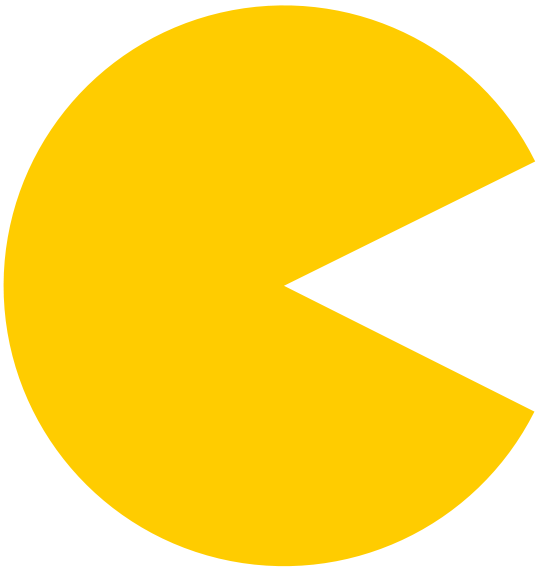
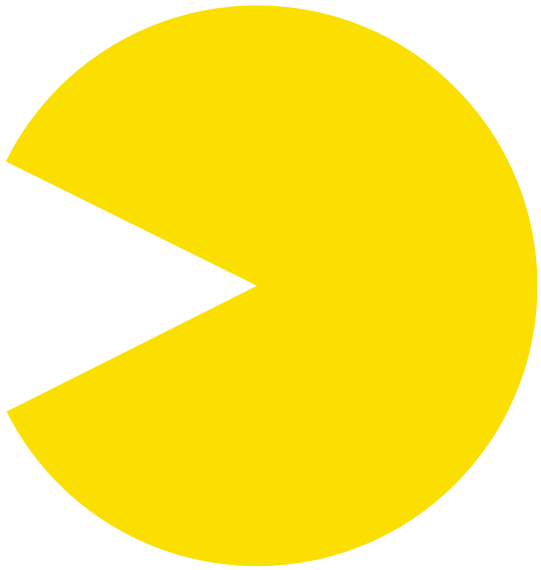
pacman will appear in a random direction

Changed region(s): [[0.0, 0.0, 1.0, 1.0]]

diff --git a/js/view.js b/js/view.js
@@ -18,8 +18,13 @@ View.prototype.start = function () {
 
   setTimeout(function () {
     var $pacman = $('<img>');
-    $pacman.attr('src', './images/pacman.png')
-    $('body').append($pacman);
+    $pacman.attr('src', './images/pacman.png');
+
+    var num_rotations = Math.floor(Math.random() * 4);
+    $pacman.css('transform', 'rotate(' + num_rotations * 90 + 'deg)')
+
+    $('figure').append($pacman);
+    console.log(num_rotations);
   }, time);
 };
 

diff --git a/js/bundle.js b/js/bundle.js
@@ -90,8 +90,13 @@
 	
 	  setTimeout(function () {
 	    var $pacman = $('<img>');
-	    $pacman.attr('src', './images/pacman.png')
-	    $('body').append($pacman);
+	    $pacman.attr('src', './images/pacman.png');
+	
+	    var num_rotations = Math.floor(Math.random() * 4);
+	    $pacman.css('transform', 'rotate(' + num_rotations * 90 + 'deg)')
+	
+	    $('figure').append($pacman);
+	    console.log(num_rotations);
 	  }, time);
 	};
 	

diff --git a/css/master.css b/css/master.css
@@ -4,14 +4,13 @@ body {
 }
 
 h2 {
-  /*position: relative;*/
   margin-top: 150px;
 }
 
 img {
-  position: relative;
   height: 200px;
-  margin-left: -400px;
+  margin-top: 100px;
+  transform: rotate(90deg);
 }
 
 #myFigure {
